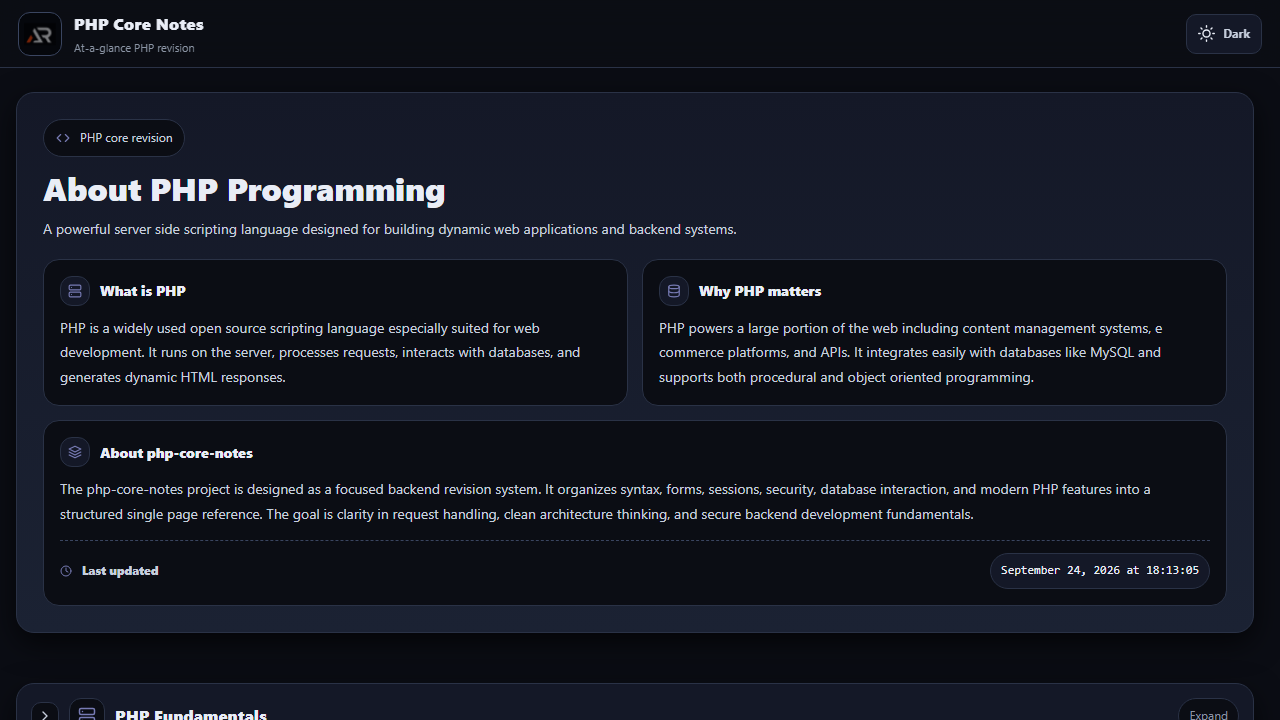
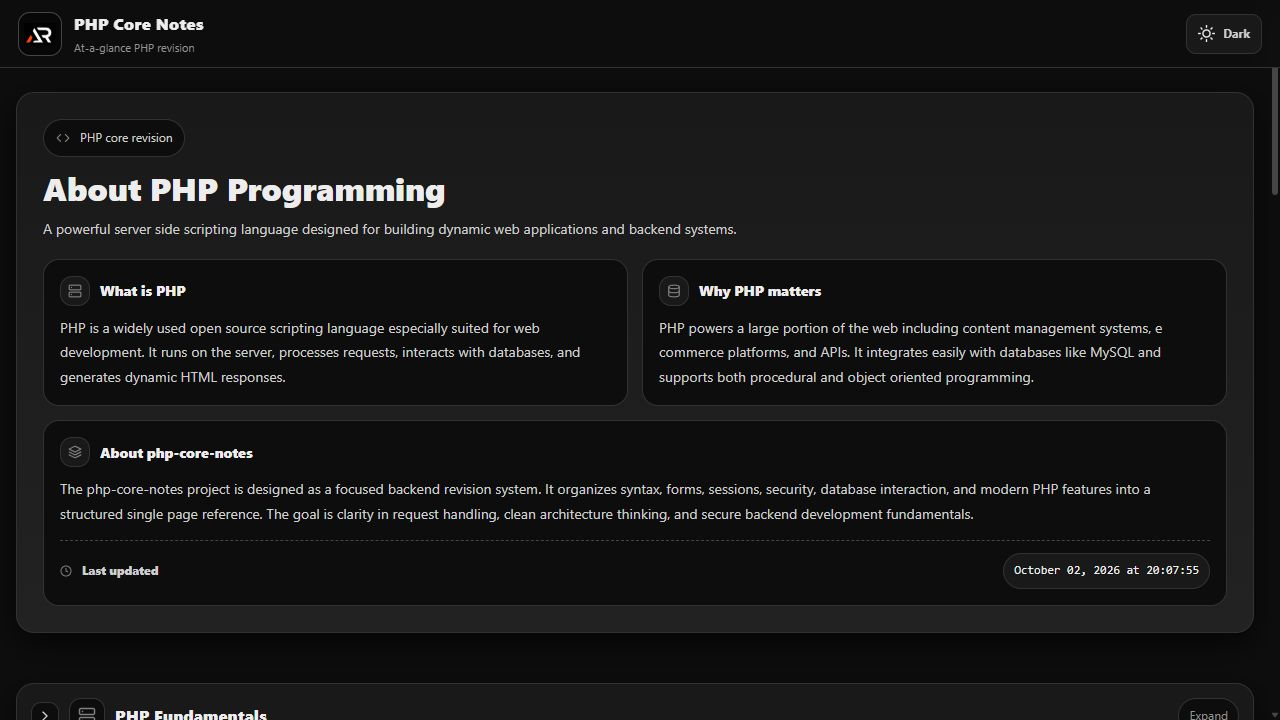
Make PHP notes monochrome and refresh preview

diff --git a/src/theme.css b/src/theme.css
@@ -3,35 +3,35 @@
 
 :root {
     /* Base */
-    --color-bg: #0b0d14;
-    --color-surface: #141827;
-    --color-surface-2: #1b2233;
+    --color-bg: #0d0d0d;
+    --color-surface: #191919;
+    --color-surface-2: #222222;
 
     /* Primary Accent - PHP Purple */
-    --color-primary: #777bb4;
-    --color-primary-hover: #8d91c7;
+    --color-primary: #7f7f7f;
+    --color-primary-hover: #959595;
 
     /* Text */
-    --color-text-primary: #e9edf6;
-    --color-text-secondary: #c7cfdd;
-    --color-text-muted: #8a93a3;
+    --color-text-primary: #ededed;
+    --color-text-secondary: #cecece;
+    --color-text-muted: #929292;
 
     /* Borders */
-    --color-border: #2a3246;
-    --color-border-light: #3a4560;
+    --color-border: #323232;
+    --color-border-light: #454545;
 
     /* Links */
-    --color-link: #777bb4;
-    --color-link-hover: #9aa0d6;
+    --color-link: #7f7f7f;
+    --color-link-hover: #a3a3a3;
 
     /* States */
-    --color-success: #22c55e;
-    --color-error: #ef4444;
-    --color-warning: #f59e0b;
+    --color-success: #acacac;
+    --color-error: #848484;
+    --color-warning: #b1b1b1;
 
     /* Code blocks - Dark IDE style */
-    --color-code-bg: #0f1320;
-    --color-code-border: #2a3246;
+    --color-code-bg: #131313;
+    --color-code-border: #323232;
 
     /* Shadow */
     --color-shadow: rgba(0, 0, 0, 0.65);
@@ -41,28 +41,28 @@
 
 html[data-theme="light"] {
     --color-bg: #ffffff;
-    --color-surface: #f6f7fb;
-    --color-surface-2: #eceff7;
+    --color-surface: #f7f7f7;
+    --color-surface-2: #efefef;
 
-    --color-primary: #5b5fa6;
-    --color-primary-hover: #777bb4;
+    --color-primary: #666666;
+    --color-primary-hover: #7f7f7f;
 
-    --color-text-primary: #111827;
-    --color-text-secondary: #374151;
-    --color-text-muted: #6b7280;
+    --color-text-primary: #181818;
+    --color-text-secondary: #404040;
+    --color-text-muted: #727272;
 
-    --color-border: #d7dbe6;
-    --color-border-light: #e7eaf2;
+    --color-border: #dbdbdb;
+    --color-border-light: #eaeaea;
 
-    --color-link: #5b5fa6;
-    --color-link-hover: #777bb4;
+    --color-link: #666666;
+    --color-link-hover: #7f7f7f;
 
-    --color-success: #15803d;
-    --color-error: #b91c1c;
-    --color-warning: #a16207;
+    --color-success: #6f6f6f;
+    --color-error: #5e5e5e;
+    --color-warning: #707070;
 
-    --color-code-bg: #f3f4fb;
-    --color-code-border: #d7dbe6;
+    --color-code-bg: #f4f4f4;
+    --color-code-border: #dbdbdb;
 
     --color-shadow: rgba(0, 0, 0, 0.08);
 }

diff --git a/index.html b/index.html
@@ -3,7 +3,7 @@
   <head>
     <meta charset="UTF-8" />
     <meta name="viewport" content="width=device-width, initial-scale=1.0" />
-    <meta name="theme-color" content="#080a11" />
+    <meta name="theme-color" content="#0a0a0a" />
     <meta name="description" content="Practical PHP core notes covering syntax, OOP, web development, security, and backend fundamentals." />
     <link rel="icon" type="image/png" href="/php-core-notes/logo.png" />
     <link rel="canonical" href="https://a2rp.github.io/php-core-notes/" />

diff --git a/src/components/header/styled.js b/src/components/header/styled.js
@@ -29,7 +29,7 @@ export const Styled = {
             overflow: hidden;
             border: 1px solid var(--color-border-light);
             border-radius: 12px;
-            background: #05070c;
+            background: #070707;
             img { width: 100%; height: 100%; object-fit: contain; transition: opacity 180ms ease; }
             .logoSkeleton { position: absolute; inset: 0; background: var(--color-surface-2); }
         }
